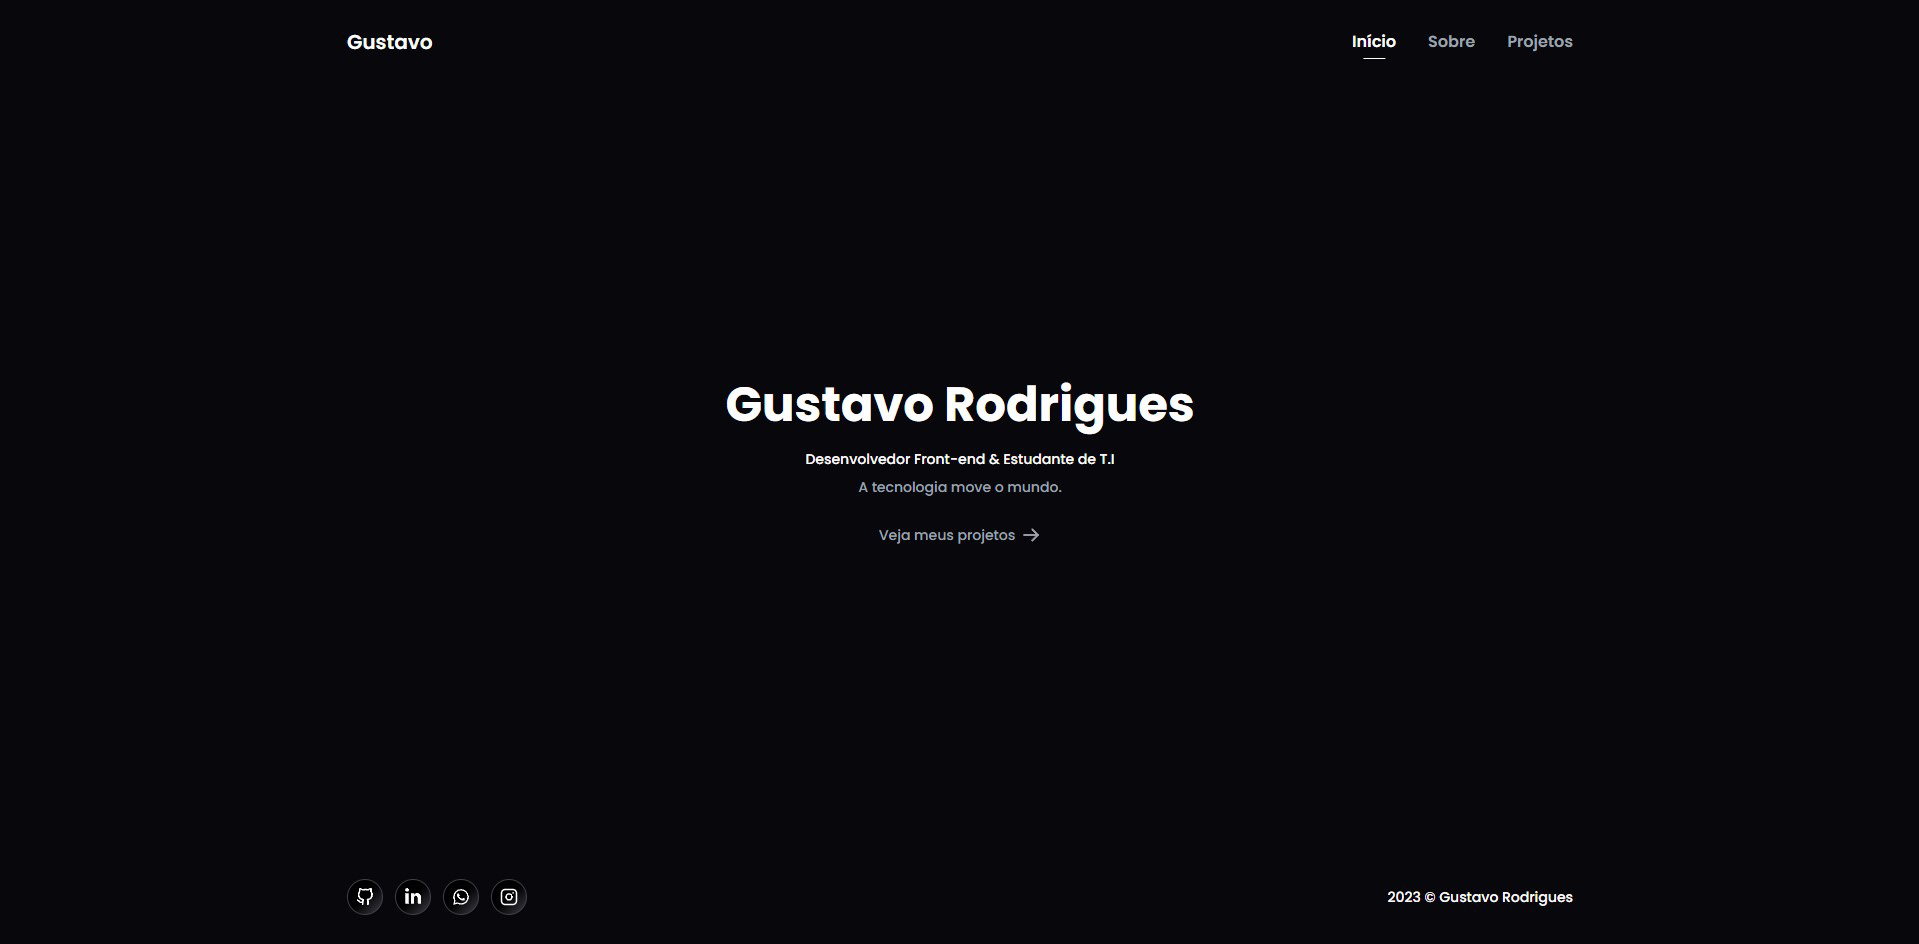
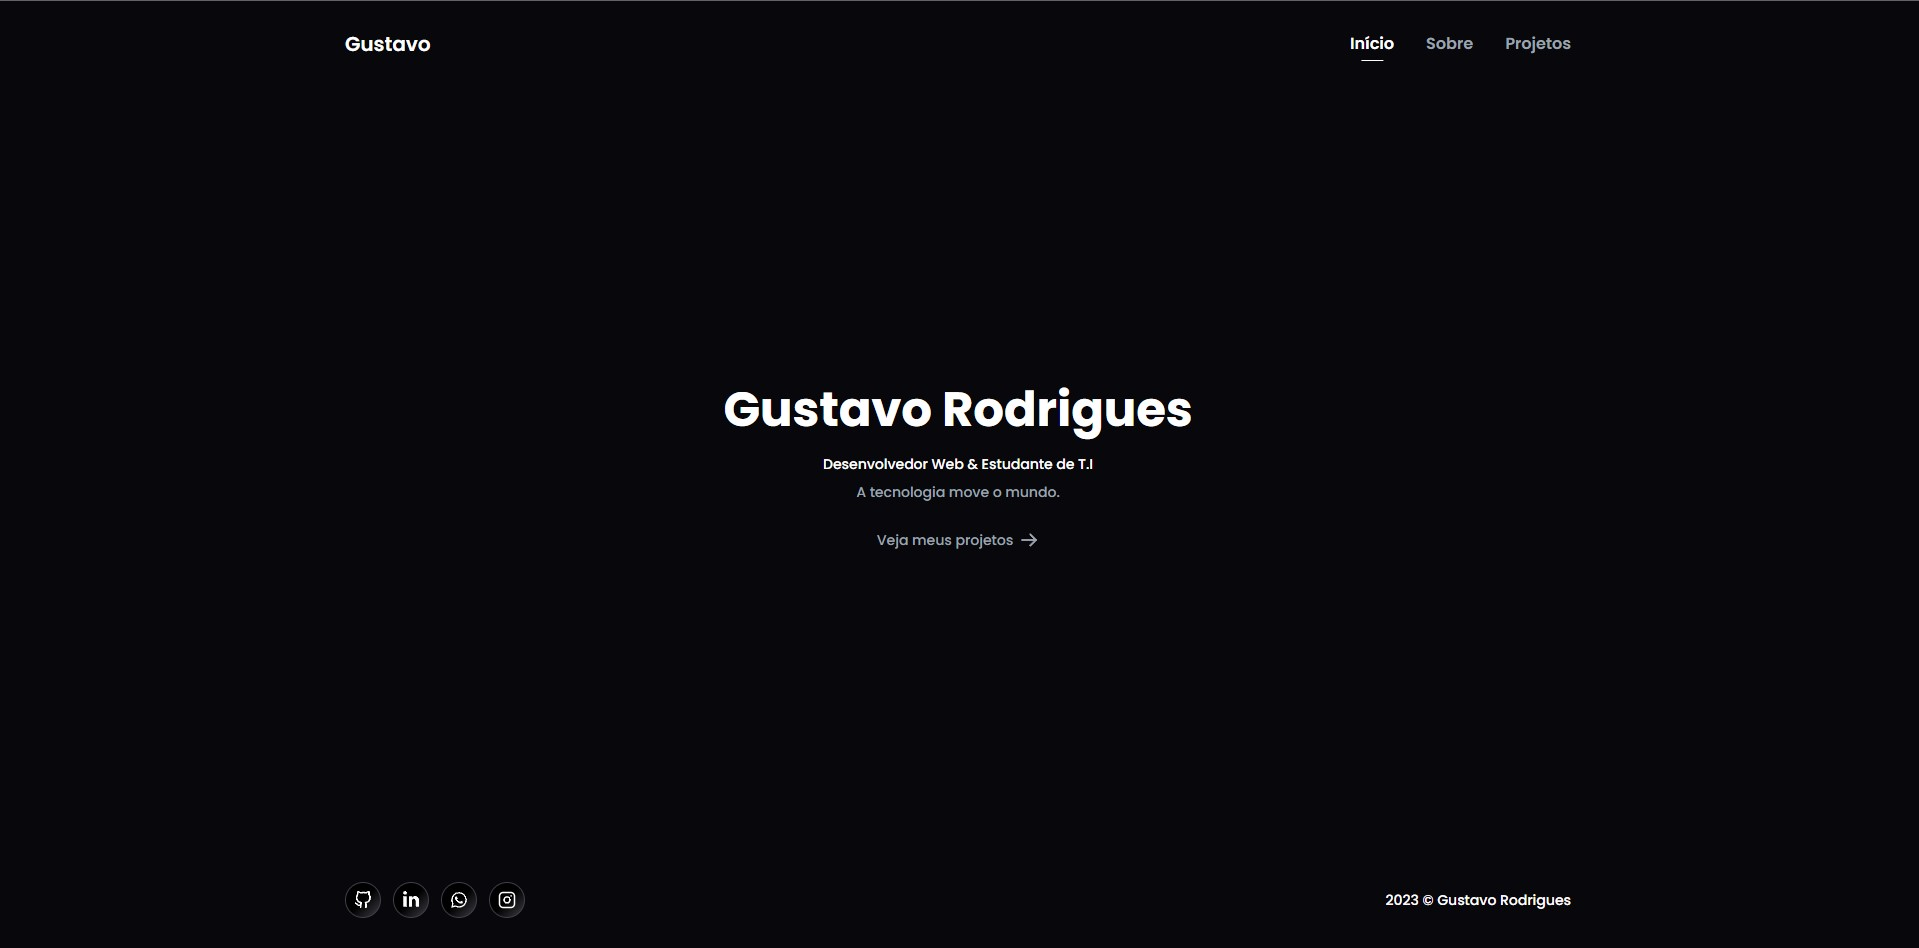
Mini changes

diff --git a/src/components/HeaderMobile.jsx b/src/components/HeaderMobile.jsx
@@ -35,7 +35,7 @@ const HeaderMobile = () => {
           showMenu
             ? "bottom-0 z-[-1] bg-background/80 backdrop-blur-[15px] pointer-events-auto opacity-1 translate-y-0"
             : "-bottom-full z-[-1] opacity-0 pointer-events-none translate-y-[50px]"
-        } top-0 flex items-center justify-center duration-150`}
+        } top-0 flex items-center justify-center transition-all`}
       >
         <ul className={`flex flex-col items-center justify-center gap-10`}>
           <li className="text-gray-400">
@@ -56,7 +56,10 @@ const HeaderMobile = () => {
         </ul>
       </nav>
       <div className="flex items-center px-1">
-        <button onClick={handleMenu} className="text-primary">
+        <button
+          onClick={handleMenu}
+          className="text-primary transition-transform active:scale-90"
+        >
           {showMenu ? <X size={26} /> : <List size={26} />}
         </button>
       </div>

diff --git a/src/main.jsx b/src/main.jsx
@@ -6,7 +6,12 @@ import ReactDOM from "react-dom/client";
 import "./styles/global.css";
 
 // React Router
-import { BrowserRouter as Router, Routes, Route } from "react-router-dom";
+import {
+  BrowserRouter as Router,
+  Routes,
+  Route,
+  Navigate,
+} from "react-router-dom";
 
 // Pages
 import Home from "./pages/Home";
@@ -34,9 +39,10 @@ ReactDOM.createRoot(document.getElementById("root")).render(
         element={<Projects title="Gustavo Rodrigues — Projetos" />}
       />
       <Route
-        path="*"
+        path="/404"
         element={<NotFound title="Gustavo Rodrigues — Not Found" />}
       />
+      <Route path="*" element={<Navigate to="/404" />} />
     </Routes>
     <Footer />
   </Router>

diff --git a/src/pages/Projects.jsx b/src/pages/Projects.jsx
@@ -58,7 +58,7 @@ const Projects = ({ title }) => {
                       </button>
                     ))}
                   </div>
-                  <div className="flex gap-3">
+                  <div className="flex gap-3 py-1.5">
                     <a href={visit} target="_blank">
                       <button className="flex flex-row items-center justify-center text-sm text-primary bg-gradient-to-br from-black via-black to-zinc-700 border border-zinc-700 rounded-full p-2 duration-300">
                         <FiExternalLink size={20} />

diff --git a/src/pages/Home.jsx b/src/pages/Home.jsx
@@ -21,7 +21,7 @@ const Home = ({ title }) => {
           <h1 className="text-5xl py-1 font-bold">Gustavo Rodrigues</h1>
           <div className="flex flex-col gap-2">
             <p className="flex gap-1 justify-center sm:text-sm md:text-md text-primary">
-              Desenvolvedor Front-end & Estudante de T.I
+              Desenvolvedor Web & Estudante de T.I
             </p>
             <p className="flex gap-1 justify-center sm:text-sm md:text-md mb-1 text-gray-400">
               A tecnologia move o mundo.

diff --git a/src/data/projects-data.jsx b/src/data/projects-data.jsx
@@ -23,7 +23,7 @@ export const projects = [
     src: moviecorn,
     title: "MovieCorn",
     description:
-      "Aplicação onde é utilizada a TMDb API para mostrar uma biblioteca de filmes e séries utilizando a TMDb API.",
+      "Aplicação onde é utilizada a TMDb API para mostrar uma biblioteca de filmes e séries.",
     techs: ["React", "Styled Components", "React Router"],
     code: "https://github.com/guhrodriguess/moviecorn",
     visit: "https://moviecorn.vercel.app",
